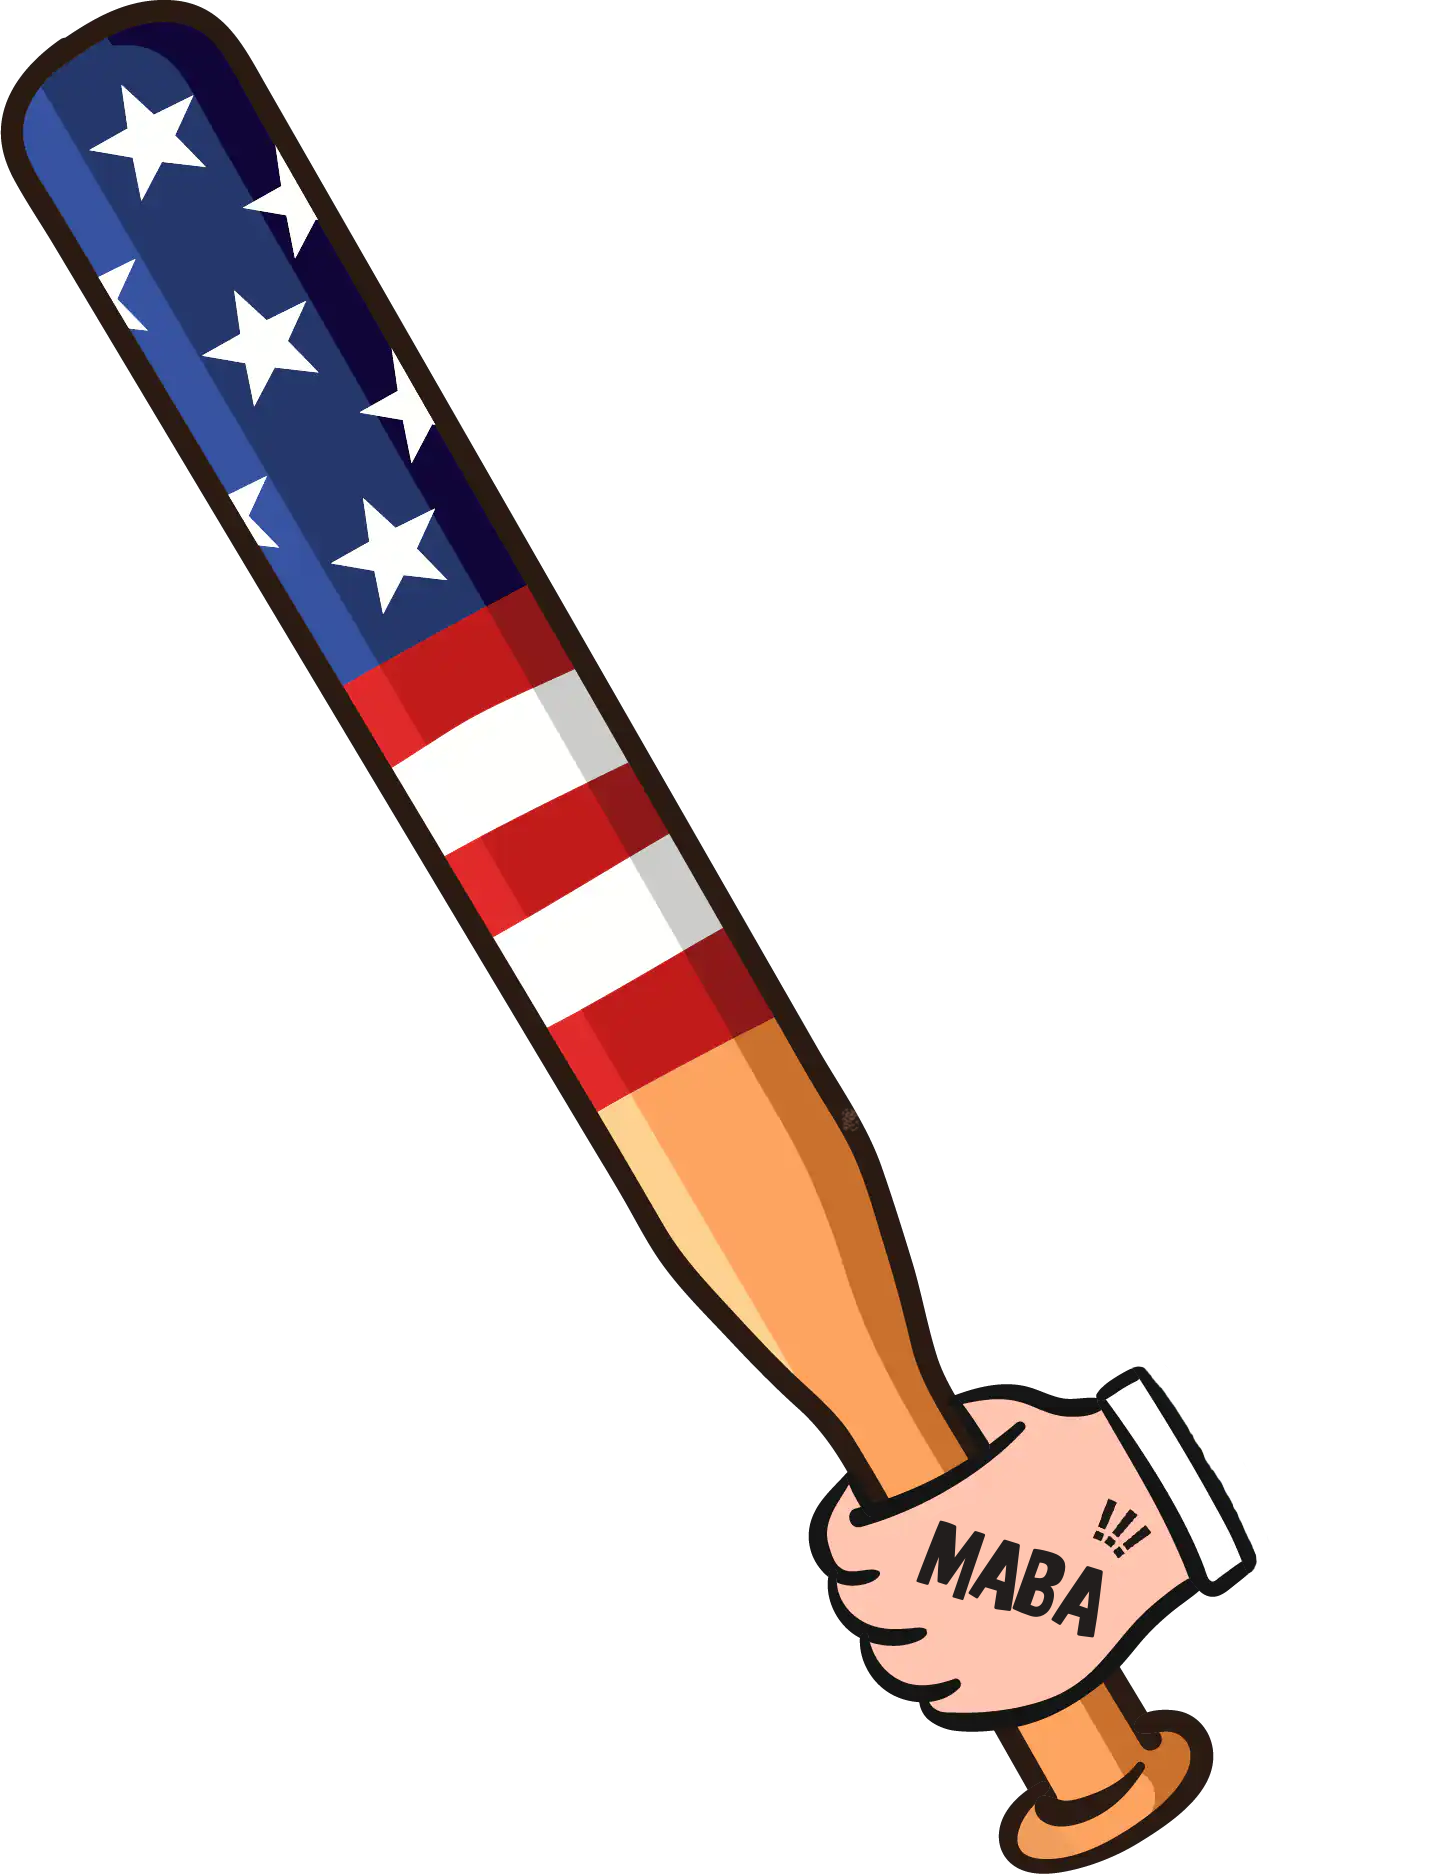
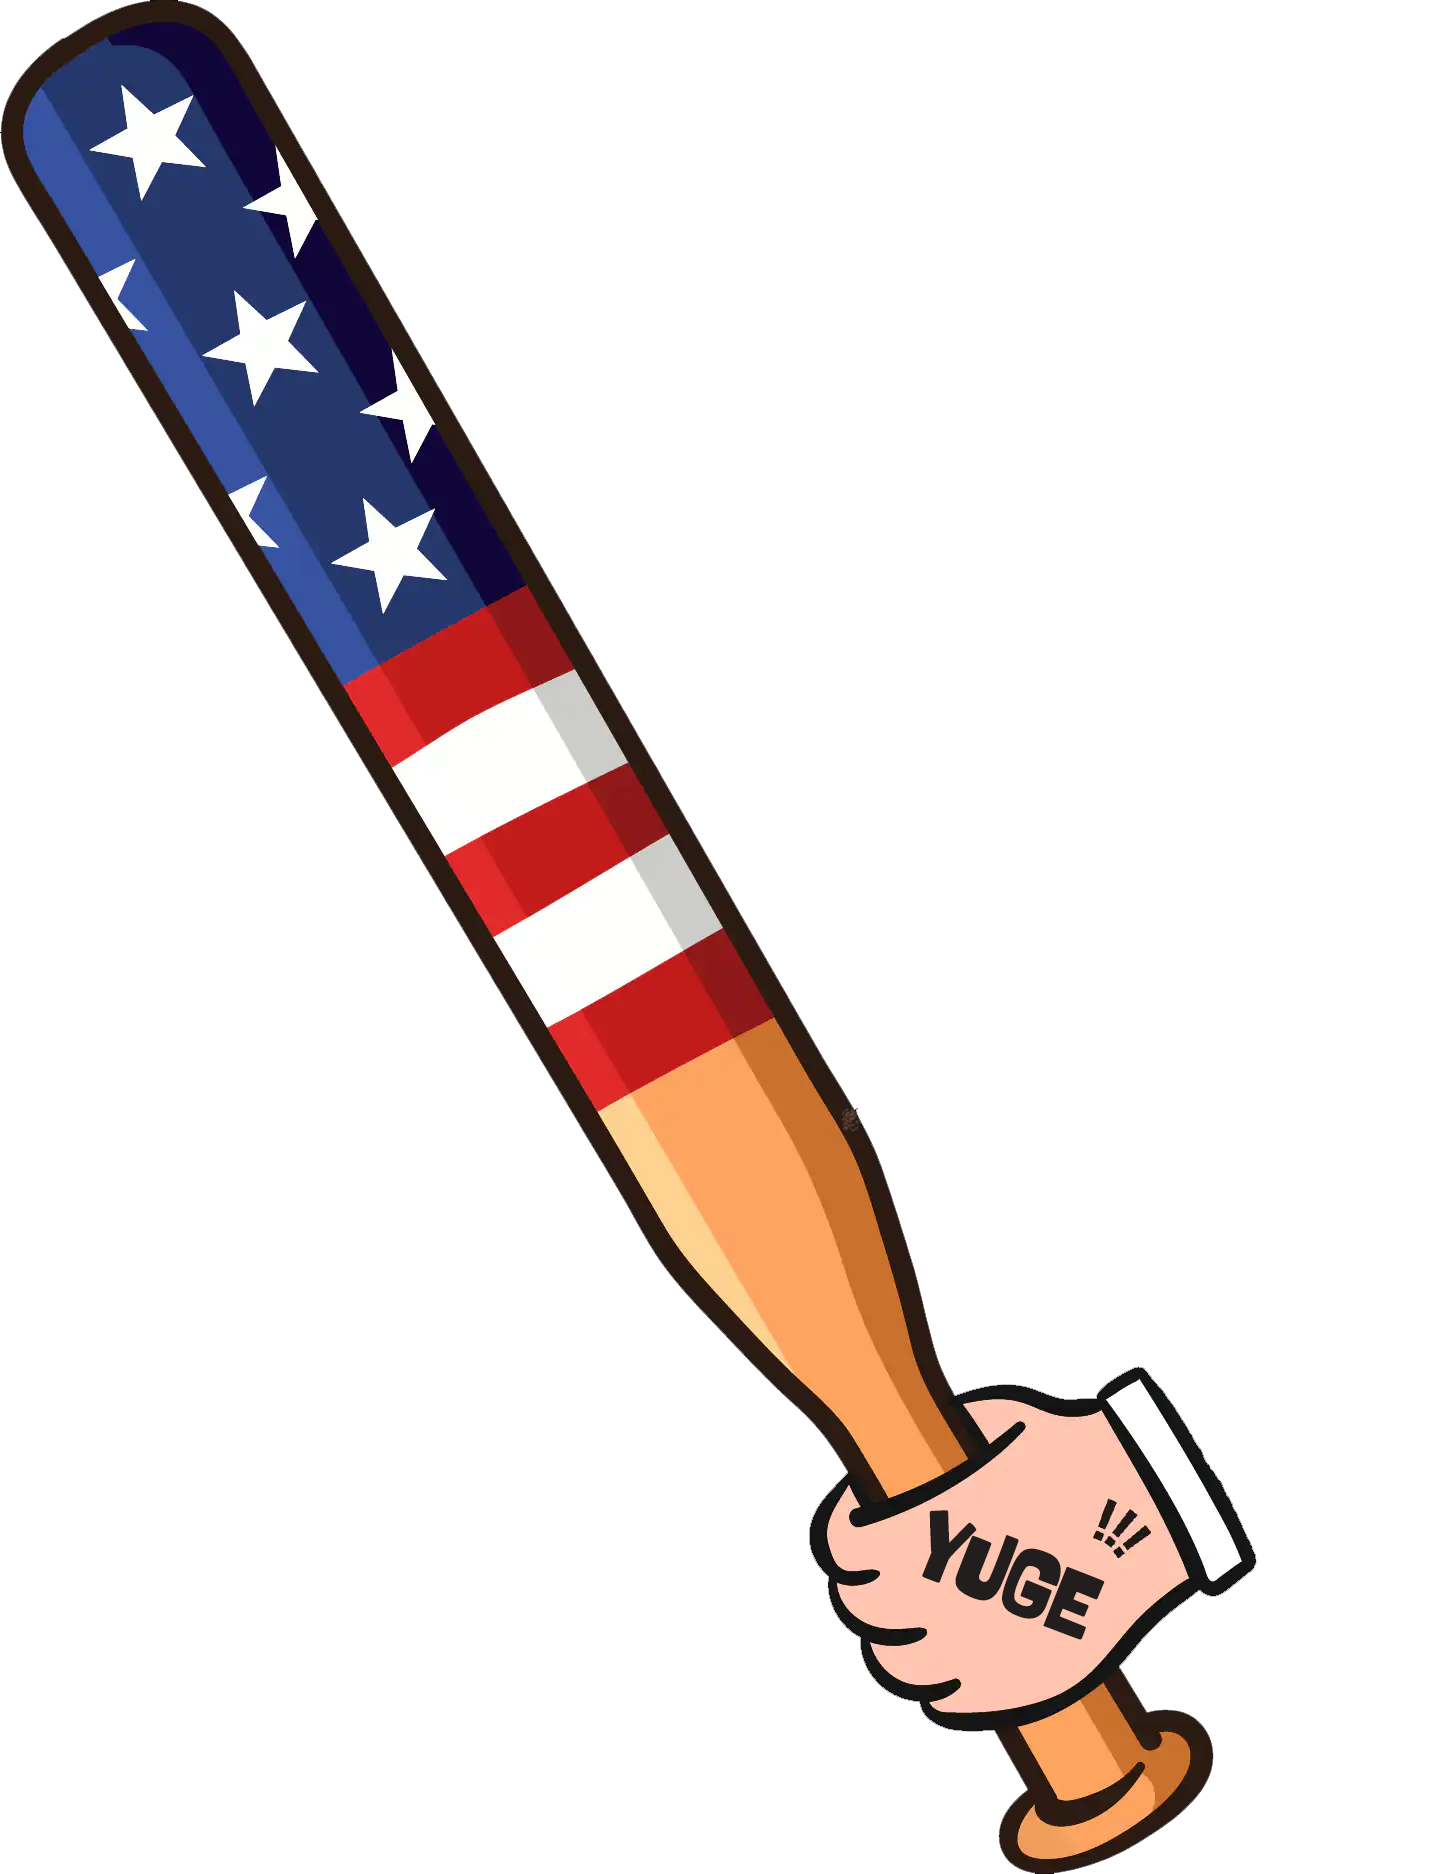
added new images

Changed region(s): [[0.6448, 0.8047, 0.7676, 0.8975]]

diff --git a/index.html b/index.html
@@ -11,25 +11,25 @@
          content="index, follow, max-image-preview:large, max-snippet:-1, max-video-preview:-1"
       />
       <meta name="theme-color" content="#ffffff" />
-      <title>YUGE is not your average meme coin.</title>
+      <title>You’re Unstoppably Great Everyday.</title>
       <meta
          name="description"
-         content="YUGE is not your average meme coin. Join the loudest YUGE movement on the blockchain."
+         content="History is being made right before your eyes, and we are proud to lead the way – join us and be a part of that story! 🇺🇸"
       />
       <meta property="og:locale" content="en_US" />
       <meta property="og:type" content="website" />
       <meta
          property="og:title"
-         content="YUGE is not your average meme coin. Join the loudest YUGE movement on the blockchain."
+         content="History is being made right before your eyes, and we are proud to lead the way – join us and be a part of that story! 🇺🇸"
       />
       <!-- <meta property="og:url" content="http://127.0.0.1:5500/" /> -->
       <meta
          property="og:site_name"
-         content="YUGE is not your average meme coin. Join the loudest YUGE movement on the blockchain."
+         content="History is being made right before your eyes, and we are proud to lead the way – join us and be a part of that story! 🇺🇸"
       />
       <meta
          property="og:description"
-         content="YUGE is not your average meme coin. Join the loudest YUGE movement on the blockchain."
+         content="History is being made right before your eyes, and we are proud to lead the way – join us and be a part of that story! 🇺🇸"
       />
       <meta property="og:image" content="twitter_cover_refreshv3.jpg" />
       <meta
@@ -41,16 +41,16 @@
       <meta property="og:image:height" content="627" />
       <meta
          property="twitter:description"
-         content="YUGE is not your average meme coin. Join the loudest YUGE movement on the blockchain."
+         content="History is being made right before your eyes, and we are proud to lead the way – join us and be a part of that story! 🇺🇸"
       />
 
       <meta property="twitter:card" content="summary_large_image" />
       <meta property="twitter:card" content="summary_large_image" />
       <meta
          property="twitter:title"
-         content="YUGE is not your average meme coin. Join the loudest YUGE movement on the blockchain."
+         content="History is being made right before your eyes, and we are proud to lead the way – join us and be a part of that story! 🇺🇸"
       />
-      <meta property="twitter:site" content="@YUGEMemecoin" />
+      <meta property="twitter:site" content="@YUGE_Club" />
       <link rel="icon" href="favicon.ico" />
       <link
          rel="apple-touch-icon"
@@ -85,7 +85,7 @@
                <li><a href="#roadmap" title="Plan">Plan</a></li>
                <li class="hide">
                   <a
-                     href="https://t.me/mabameme"
+                     href="https://t.me/YUGE_Club"
                      title="MABA Telegram"
                      rel="noreferrer"
                      target="_blank"
@@ -94,7 +94,7 @@
                </li>
                <li class="hide">
                   <a
-                     href="https://x.com/mabameme"
+                     href="https://x.com/YUGE_Club"
                      title="MABA Twitter"
                      rel="noreferrer"
                      target="_blank"
@@ -111,7 +111,7 @@
                <div class="socials">
                   <a
                      class="circle"
-                     href="https://solscan.io/token/MABACQk3iMweTvsegLsCH7NRpaiEb2p9jZTpw2CuVXx"
+                     href="https://solscan.io/token/EX3qszvrF1LUU7n1U3aGQ8sMWo5jRnYJz3gSL36pump"
                      rel="noreferrer"
                      title="solscan"
                      target="_blank"
@@ -125,14 +125,14 @@
                         alt="" /></a
                   ><a
                      class="circle red"
-                     href="https://x.com/mabameme"
+                     href="https://x.com/YUGE_Club"
                      rel="noreferrer"
                      title="YUGE Twitter"
                      target="_blank"
                      ><i data-ico="tw"></i></a
                   ><a
                      class="circle"
-                     href="https://t.me/mabameme"
+                     href="https://t.me/YUGE_Club"
                      rel="noreferrer"
                      title="YUGE Telegram"
                      target="_blank"
@@ -140,7 +140,7 @@
                   ></a>
                </div>
                <a
-                  href="https://raydium.io/swap/?inputMint=sol&outputMint=MABACQk3iMweTvsegLsCH7NRpaiEb2p9jZTpw2CuVXx"
+                  href="https://raydium.io/swap/?inputMint=sol&outputMint=EX3qszvrF1LUU7n1U3aGQ8sMWo5jRnYJz3gSL36pump"
                   class="btn small red pattern"
                   title="Ape YUGE"
                   rel="noreferrer"
@@ -238,7 +238,7 @@
                      <p class="clipboard">
                         <span class="reduced"
                            >Contract:
-                           MABACQk3iMweTvsegLsCH7NRpaiEb2p9jZTpw2CuVXx</span
+                           EX3qszvrF1LUU7n1U3aGQ8sMWo5jRnYJz3gSL36pump</span
                         >
                      </p>
                   </section>
@@ -277,6 +277,7 @@
                         src="./static/media/bulbox.03e8b9a37d467035fa40.webp"
                         alt="YUGE"
                      />
+
                      <div class="boxui">
                         <div class="row">
                            <div class="cell">
@@ -299,7 +300,7 @@
                            <div class="cell">
                               <a
                                  class="btn large vote for-trump pattern"
-                                 href="https://raydium.io/swap/?inputMint=sol&outputMint=MABACQk3iMweTvsegLsCH7NRpaiEb2p9jZTpw2CuVXx"
+                                 href="https://raydium.io/swap/?inputMint=sol&outputMint=EX3qszvrF1LUU7n1U3aGQ8sMWo5jRnYJz3gSL36pump"
                                  title="APE MABA"
                                  target="_blankz"
                                  ><span class="z-axis">Vote</span></a
@@ -483,7 +484,7 @@
                               <h4>STEP 2 - DRILL, BABY, DRILL</h4>
                               <ul>
                                  <li>
-                                    Form the YUGE (Make America BONK Again)
+                                    Form the YUGE (Make America YUGE Again)
                                     community
                                  </li>
                                  <li>
@@ -516,8 +517,8 @@
                                     &amp; $YUGE adoption
                                  </li>
                                  <li>
-                                    Develop, design, and launch the Whac-A-Joe
-                                    game
+                                    Develop, design, and launch the
+                                    Whac-A-Kamala game
                                  </li>
                               </ul>
                            </div>
@@ -531,7 +532,7 @@
                      >
                         <div class="large-lbl negative">
                            <div>
-                              <h4>STEP 4 - Make America BONK Again</h4>
+                              <h4>STEP 4 - Make America YUGE Again</h4>
                               <ul>
                                  <li>To be announced</li>
                               </ul>
@@ -635,7 +636,7 @@
                >
                   <div class="align-center">
                      <a
-                        href="https://raydium.io/swap/?inputMint=sol&amp;outputMint=MABACQk3iMweTvsegLsCH7NRpaiEb2p9jZTpw2CuVXx"
+                        href="https://raydium.io/swap/?inputMint=sol&amp;outputMint=EX3qszvrF1LUU7n1U3aGQ8sMWo5jRnYJz3gSL36pump"
                         class="btn large red pattern z-axis"
                         title="APE YUGE"
                         rel="noreferrer"
@@ -646,7 +647,7 @@
                      <div class="socials align-center">
                         <a
                            class="circle"
-                           href="https://solscan.io/token/MABACQk3iMweTvsegLsCH7NRpaiEb2p9jZTpw2CuVXx"
+                           href="https://solscan.io/token/EX3qszvrF1LUU7n1U3aGQ8sMWo5jRnYJz3gSL36pump"
                            rel="noreferrer"
                            title="Solscan"
                            target="_blank"
@@ -660,14 +661,14 @@
                               alt="" /></a
                         ><a
                            class="circle red"
-                           href="https://x.com/mabameme"
+                           href="https://x.com/YUGE_Club"
                            rel="noreferrer"
                            title="YUGE Twitter"
                            target="_blank"
                            ><i data-ico="tw"></i></a
                         ><a
                            class="circle"
-                           href="https://t.me/mabameme"
+                           href="https://t.me/YUGE_Club"
                            rel="noreferrer"
                            title="YUGE Telegram"
                            target="_blank"
@@ -681,7 +682,7 @@
          <!-- <div class="coming-soon">
           <div class="align-center comming-soon-wrapper">
             <a
-               href="https://raydium.io/swap/?inputMint=sol&amp;outputMint=MABACQk3iMweTvsegLsCH7NRpaiEb2p9jZTpw2CuVXx"
+               href="https://raydium.io/swap/?inputMint=sol&amp;outputMint=EX3qszvrF1LUU7n1U3aGQ8sMWo5jRnYJz3gSL36pump"
                class="btn large red pattern z-axis"
                title="COMING SOON"
                rel="noreferrer"
@@ -692,7 +693,7 @@
             <div class="socials align-center comming-soon-bottom">
                <a
                   class="circle"
-                  href="https://solscan.io/token/MABACQk3iMweTvsegLsCH7NRpaiEb2p9jZTpw2CuVXx"
+                  href="https://solscan.io/token/EX3qszvrF1LUU7n1U3aGQ8sMWo5jRnYJz3gSL36pump"
                   rel="noreferrer"
                   title="Solscan"
                   target="_blank"
@@ -706,14 +707,14 @@
                      alt="" /></a
                ><a
                   class="circle red"
-                  href="https://x.com/mabameme"
+                  href="https://x.com/YUGE_Club"
                   rel="noreferrer"
                   title="YUGE Twitter"
                   target="_blank"
                   ><i data-ico="tw"></i></a
                ><a
                   class="circle"
-                  href="https://t.me/mabameme"
+                  href="https://t.me/YUGE_Club"
                   rel="noreferrer"
                   title="YUGE Telegram"
                   target="_blank"
